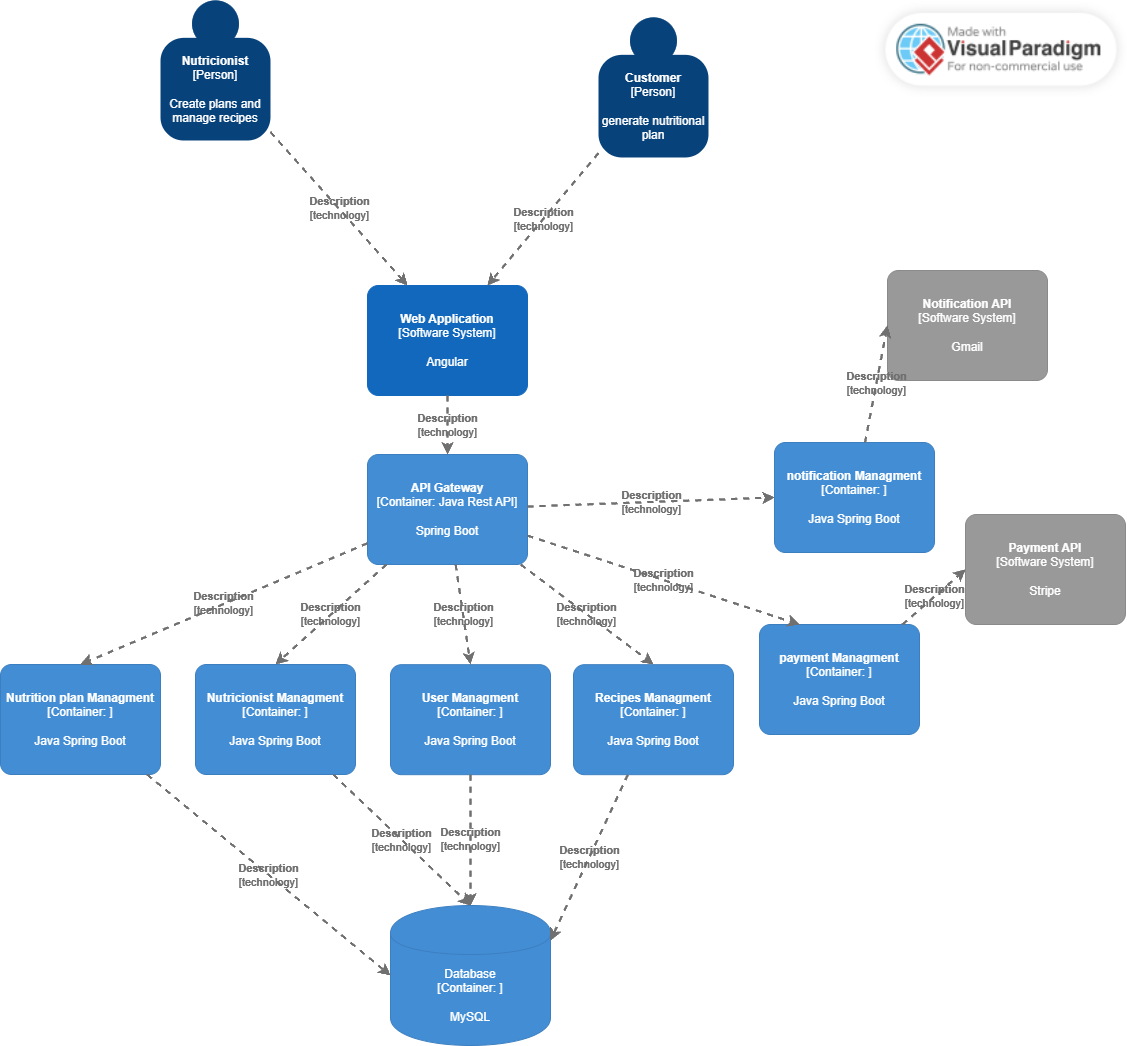
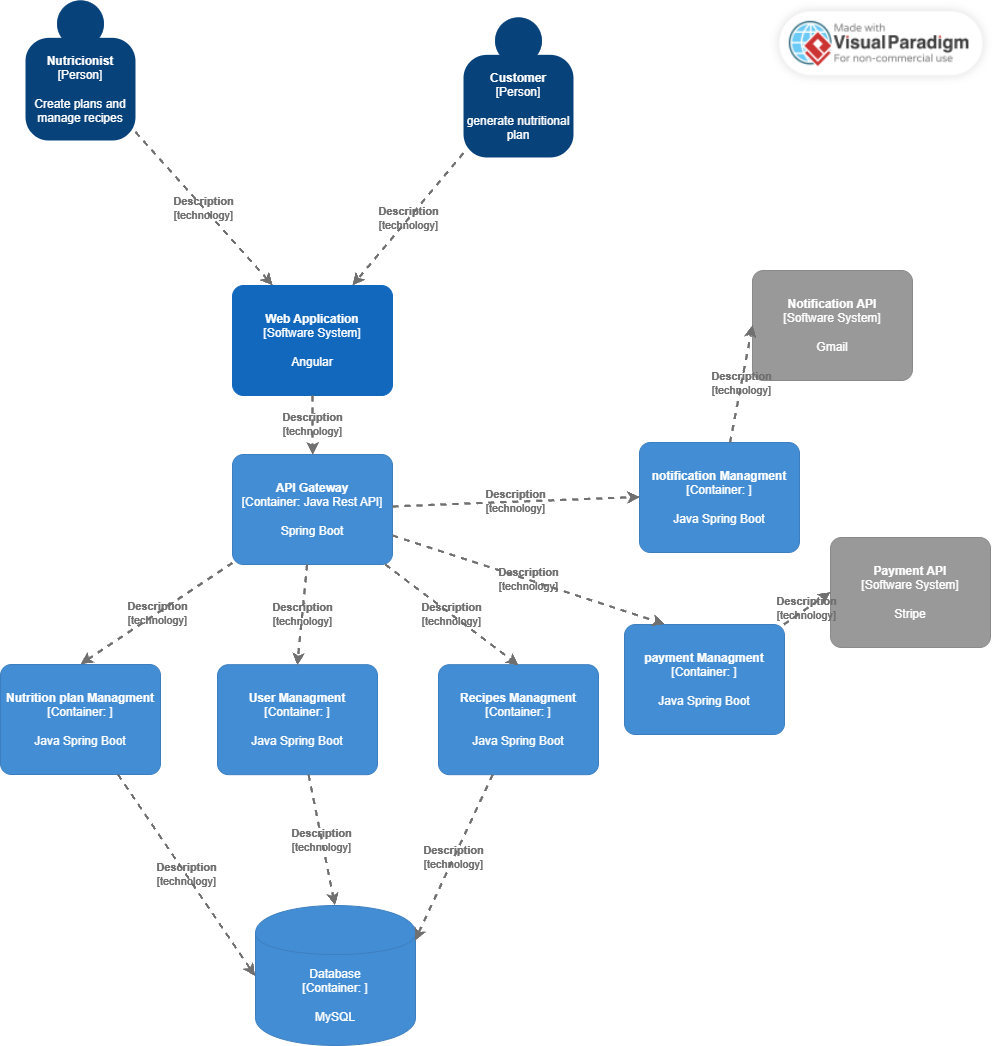
fixed diagram components and class diagram

diff --git a/README.md b/README.md
@@ -451,7 +451,16 @@ Sí, afectaría directamente la viabilidad del modelo freemium y la sostenibilid
 
 #### 4.6.3. Software Architecture Components Diagrams
 <p align="center">
-  <img src="./imagenes/components-diagram.png" alt="Component Diagram" width="700">
+  <img src="./imagenes/component-diagram1.png" alt="Component Diagram 1" width="700">
+</p>
+<p align="center">
+  <img src="./imagenes/components-diagram2.png" alt="Component Diagram 2" width="700">
+</p>
+<p align="center">
+  <img src="./imagenes/components-diagram3.png" alt="Component Diagram 3" width="700">
+</p>
+<p align="center">
+  <img src="./imagenes/components-diagram4.png" alt="Component Diagram 4" width="700">
 </p>
 
 ### 4.7. Software Object-Oriented Design
@@ -459,7 +468,7 @@ Sí, afectaría directamente la viabilidad del modelo freemium y la sostenibilid
 #### 4.7.1. Class Diagrams
 
 <p align="center">
-  <img src="./imagenes/diagram-class.jpg" alt="Class Diagram" width="700">
+  <img src="./imagenes/class-diagram.png" alt="Class Diagram" width="700">
 </p>
 
 #### 4.7.2. Class Dictionary
